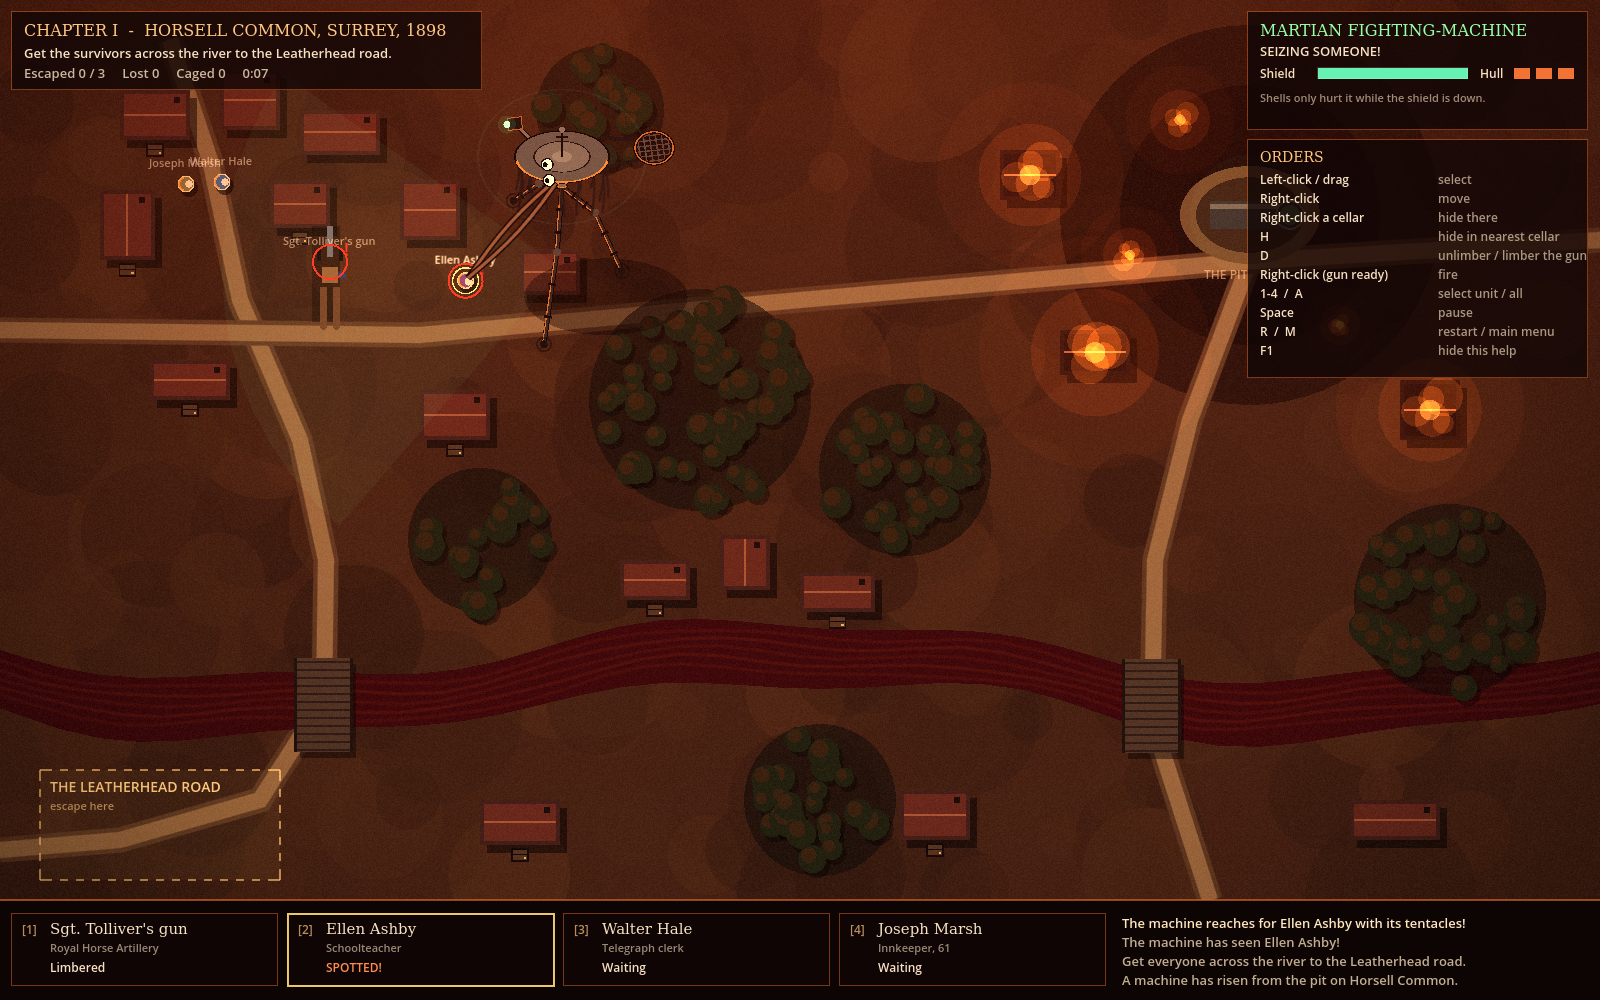
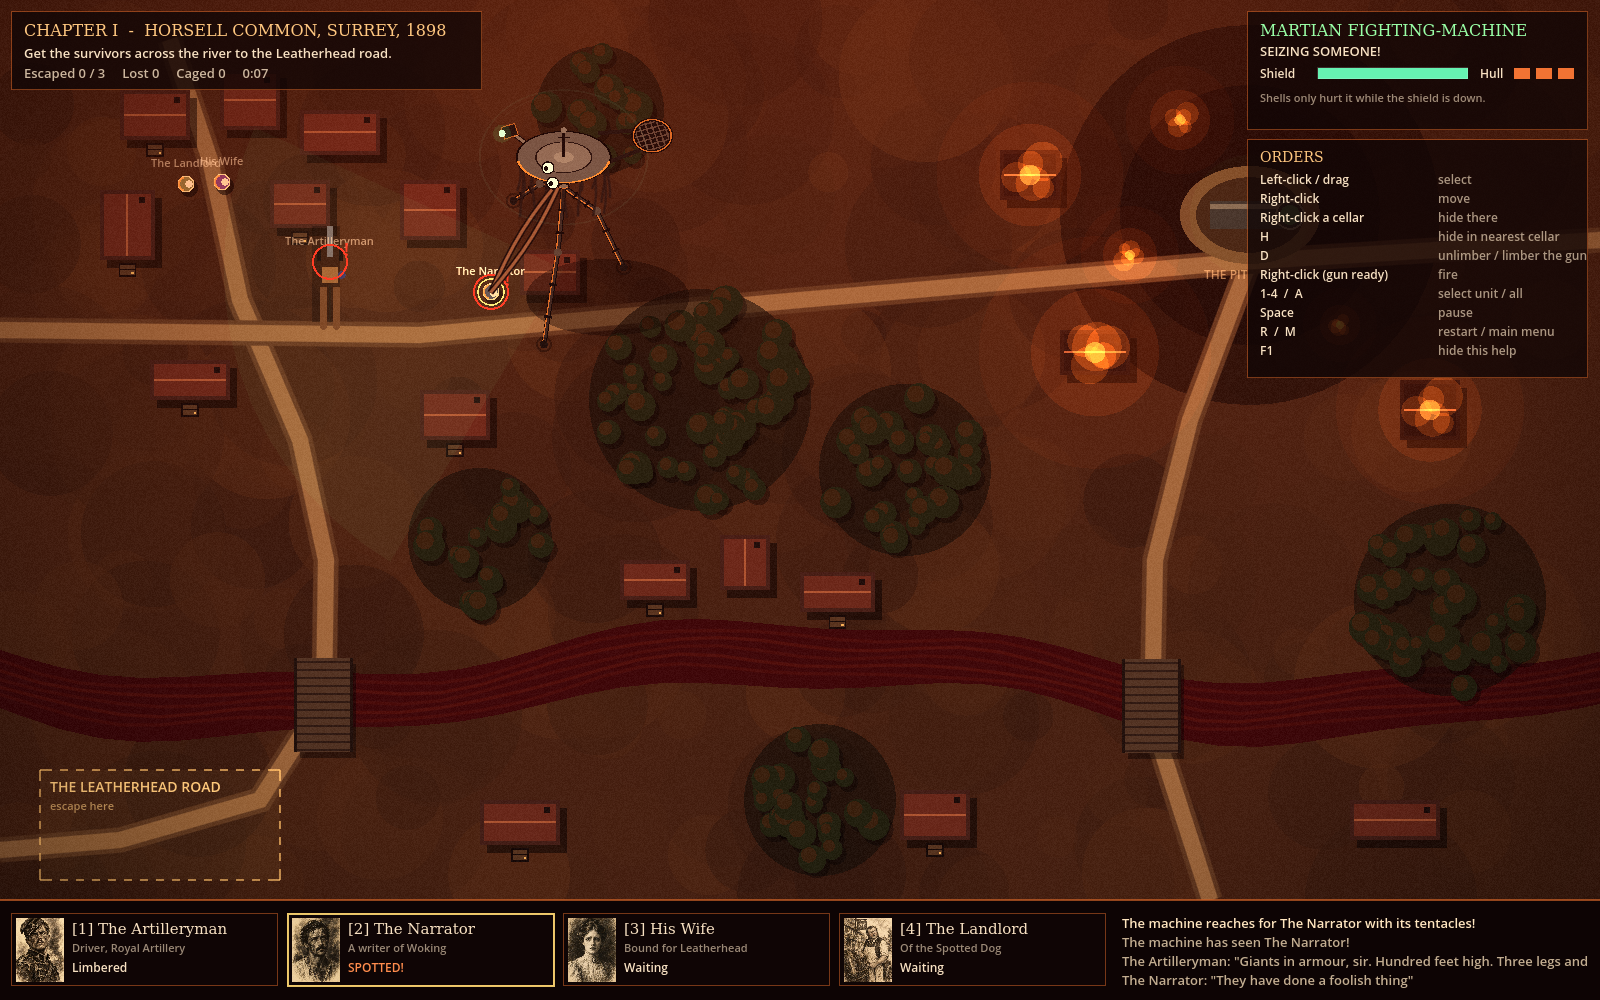
Bring Wells' own characters into the game, with ink portraits
- scripts/cast.gd: twelve characters from the novel, each with Wells'
  description and a spoken line (verified against the novel text).
- art/portraits: AI-generated pen-and-ink portraits drawn from those
  descriptions, with credits and a rights note.
- Storybook: 'In this chapter' portrait rows and a new THE CAST page.
- Chapter I now follows the novel: the Narrator, his Wife and the Landlord
  take the dog cart road to Leatherhead, covered by the Artilleryman's gun.
  Portraits on the unit cards; characters speak their lines when spotted.
- The Artillery: you are the Artilleryman, opening with his report.
- tools/check_quotes.py checks every quote against the-war-of-the-worlds.txt.

Claude-Session: https://claude.ai/code/session_01K8nddh2cUhN4uccV1BN8qn

diff --git a/tools/check_quotes.py b/tools/check_quotes.py
@@ -1,0 +1,32 @@
+"""Check that every Wells quote in the game is word-for-word in the novel.
+
+  python3 tools/check_quotes.py
+
+Checks text inside \"...\" in scripts/story.gd and the "desc"/"line" fields
+in scripts/cast.gd against the-war-of-the-worlds.txt (Project Gutenberg).
+Apostrophes, dashes and whitespace are normalised before comparing.
+"""
+import re, sys, pathlib
+
+root = pathlib.Path(__file__).resolve().parent.parent
+
+def norm(s):
+    s = s.replace('_', '').replace('’', "'").replace('‘', "'")
+    s = s.replace('“', '"').replace('”', '"').replace('—', '-')
+    return re.sub(r'\s+', ' ', s).strip()
+
+novel = norm((root / 'the-war-of-the-worlds.txt').read_text(encoding='utf-8'))
+quotes = []
+story = (root / 'scripts/story.gd').read_text(encoding='utf-8')
+quotes += [('story.gd', q) for q in re.findall(r'\\"(.+?)\\"', story)]
+cast = (root / 'scripts/cast.gd').read_text(encoding='utf-8')
+quotes += [('cast.gd', q) for q in re.findall(r'"(?:desc|line)": "(.*?)",\n', cast) if q]
+
+bad = 0
+for src, q in quotes:
+    qn = norm(q).rstrip('.,!?')
+    if qn not in novel:
+        bad += 1
+        print(f'MISSING ({src}): {q}')
+print(f'{len(quotes)} quotes checked, {bad} not found in the novel.')
+sys.exit(1 if bad else 0)

diff --git a/README.md b/README.md
@@ -30,6 +30,22 @@ Choose **THE STORY** on the main menu. The campaign is told through Henrique Alv
 
 Controls: arrow keys or click to turn plates, Enter to play, Esc for the menu.
 
+## The cast: Wells' characters
+
+![The cast](docs/screenshots/cast.png)
+
+The game follows the novel's own people. Each character has an ink portrait drawn from Wells' description (AI-generated; see `art/portraits/CREDITS.md`), and their descriptions and spoken lines are Wells' words, defined in `scripts/cast.gd`.
+
+- **Storybook:** each chapter shows who appears in it (click a portrait), and **THE CAST** page has every character's portrait, description and line.
+- **Chapter I:** you escort **the Narrator, his Wife and the Landlord** of the Spotted Dog down the dog cart road to Leatherhead, as in the novel, covered by **the Artilleryman's** gun. Their portraits are on the unit cards, and each speaks their line the first time the machine nearly spots them.
+- **The Artillery:** you play **the Artilleryman**, who opens with his report from the novel: "Gun destroyed last night, sir. Have been hiding. Trying to rejoin battery, sir."
+
+Every quote in the game can be re-checked against the novel:
+
+```bash
+python3 tools/check_quotes.py
+```
+
 ## The fighting-machine and its cage
 
 ![The machine](docs/screenshots/machine.png)
@@ -114,6 +130,9 @@ The mood is a 1970s painted prog-rock album cover: blood-red skies, burning oran
 scenes/menu.tscn            main menu (start scene)
 scenes/campaign.tscn        the story: Corrêa plates and chapter select (scripts/campaign.gd, scripts/story.gd)
 art/correa/                 the 1906 plates (public domain) and CREDITS.md
+art/portraits/              character portraits and CREDITS.md
+scripts/cast.gd             the characters: Wells' descriptions and lines
+tools/check_quotes.py       checks every quote against the-war-of-the-worlds.txt
 scenes/main.tscn            Chapter I (strategy)
 scenes/pilot.tscn           The Fighting-Machine (first person)
 scenes/soldier.tscn         The Artillery (first person)

diff --git a/art/portraits/CREDITS.md b/art/portraits/CREDITS.md
@@ -1,0 +1,28 @@
+# Character portraits
+
+AI-generated pen-and-ink illustrations (Figma AI image generation,
+gpt-image model), made for this game from H. G. Wells' descriptions of the
+characters in *The War of the Worlds* (1898). Where Wells gives little
+physical detail (the narrator, Ogilvy, Henderson, the landlord), the
+period details were filled in to suit 1898 Surrey.
+
+Source file: Figma, "War of the Worlds - Character Portraits".
+
+| File | Character | From Wells |
+|---|---|---|
+| narrator.jpg | The Narrator | "my face and shoulders blackened by the smoke" |
+| wife.jpg | His Wife | "white and tearless" |
+| ogilvy.jpg | Ogilvy | "the well-known astronomer" |
+| stent.jpg | Stent | "a tall, fair-haired man", "a clear, high-pitched voice" |
+| henderson.jpg | Henderson | "the London journalist" |
+| landlord.jpg | The Landlord | of the Spotted Dog, with his "horse and dog cart" |
+| artilleryman.jpg | The Artilleryman | "a driver in the artillery" |
+| curate.jpg | The Curate | "crisp, almost flaxen curls on his low forehead" |
+| brother.jpg | The Brother | "a medical student", "an expert boxer" |
+| mrs_elphinstone.jpg | Mrs. Elphinstone | "a short woman dressed in white" |
+| miss_elphinstone.jpg | Miss Elphinstone | "a dark, slender figure" with a whip |
+| martian.jpg | The Martian | "The peculiar V-shaped mouth with its pointed upper lip" |
+
+Note on rights: AI-generated images may have limited or no copyright
+protection depending on the country. Review this before commercial release,
+or replace them with commissioned art.
